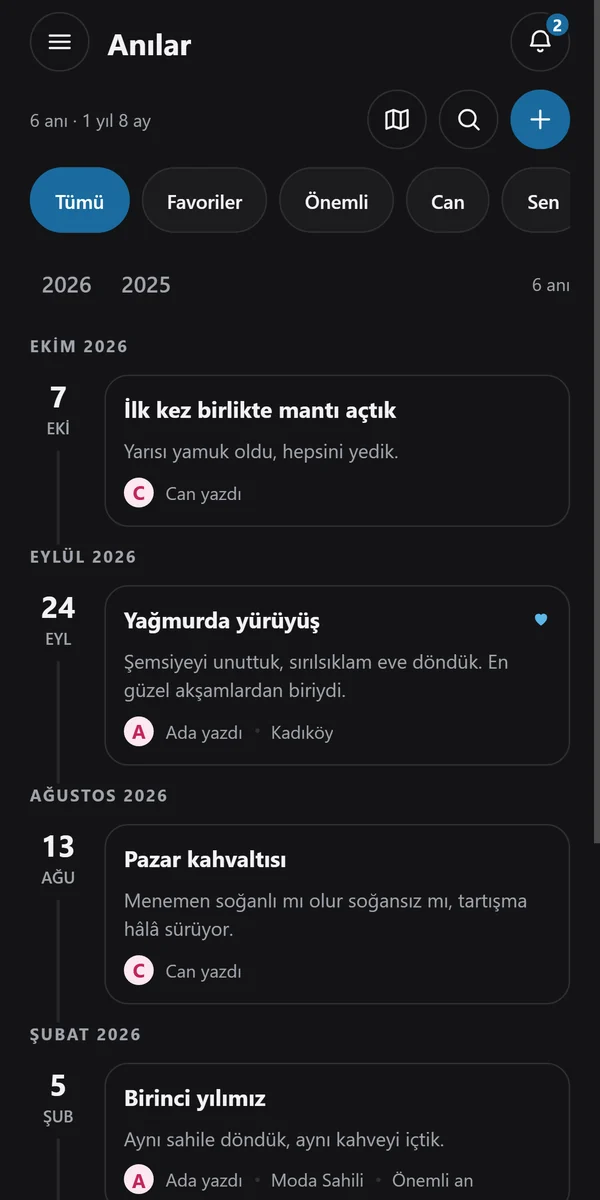
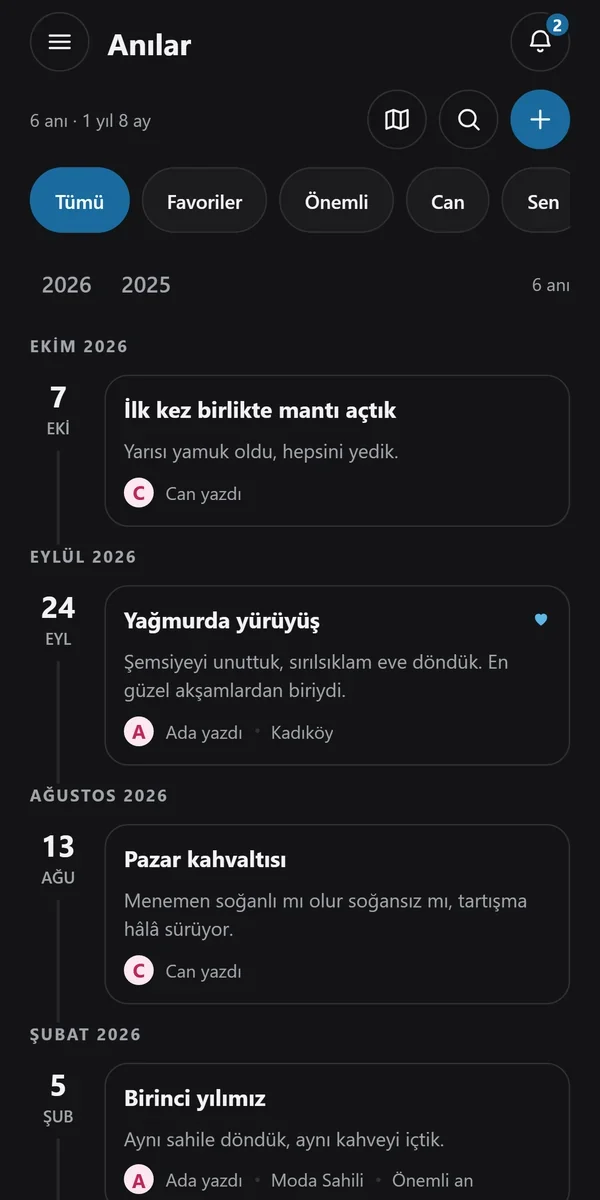
Telefonlara durum cubugu (saat, kamera, sinyal, pil); ani ekranindaki kaydirma cubugu temizlendi

Changed region(s): [[0.99, 0.0, 1.0, 0.7092]]

diff --git a/index.html b/index.html
@@ -47,7 +47,7 @@
     --paper: #F5F0E8; --card: #FCFAF6; --ink: #1E1A16; --body: #3A332C; --muted: #6E655B; --line: #DDD3C5;
     --fox: #C8552B; --fox-text: #A9441E; --btn: #A9441E; --btn-text: #FFFFFF;
     --ocean: #2F9BD8; --ocean-deep: #1A6A9E; --stage: #DCEAF3; --bezel: #1E1A16; --spark: #FFFFFF;
-    --moon: #ECE2D2; --star: #D9A441; --ground: #E6DBCB; --avatar: #FBE3EC; --avatar-text: #C2255C;
+    --moon: #ECE2D2; --star: #D9A441; --ground: #E6DBCB; --avatar: #FBE3EC; --avatar-text: #C2255C; --screen: #FFFFFF; --screen-ink: #1E1A16;
     --shadow: 0 1px 0 rgba(30, 26, 22, .04), 0 12px 32px -12px rgba(30, 26, 22, .22);
     --serif: "Fraunces", Georgia, "Times New Roman", serif;
     --sans: "Instrument Sans", -apple-system, BlinkMacSystemFont, "Segoe UI", Roboto, sans-serif;
@@ -57,7 +57,7 @@
       --paper: #171412; --card: #211D1A; --ink: #F1EAE0; --body: #D6CEC3; --muted: #A1978B; --line: #36302A;
       --fox: #E07A4C; --fox-text: #EE9670; --btn: #E07A4C; --btn-text: #171412;
       --ocean-deep: #7CC3EC; --stage: #16212B; --bezel: #050404; --spark: #2F9BD8;
-      --moon: #221D19; --star: #E8C27A; --ground: #0F0D0B; --avatar: #3A2530; --avatar-text: #F3A6C4;
+      --moon: #221D19; --star: #E8C27A; --ground: #0F0D0B; --avatar: #3A2530; --avatar-text: #F3A6C4; --screen: #141316; --screen-ink: #F4F4F5;
       --shadow: 0 1px 0 rgba(0, 0, 0, .3), 0 14px 36px -14px rgba(0, 0, 0, .7);
     }
   }
@@ -128,11 +128,18 @@
   .stage { position: relative; height: 560px; margin: 56px 0 0; overflow: hidden; border-radius: 28px; background: var(--stage); }
   .phone { position: absolute; left: 50%; width: 270px; padding: 9px; border-radius: 44px; background: var(--bezel);
            box-shadow: 0 30px 60px -20px rgba(16, 40, 60, .45), inset 0 0 0 1.5px rgba(255, 255, 255, .08); }
-  .phone picture { display: block; }
-  .phone img { display: block; width: 100%; height: auto; border-radius: 35px; }
+  .phone { container-type: inline-size; }
+  .scr { background: var(--screen); border-radius: 35px; overflow: hidden; }
+  .scr picture { display: block; }
+  .scr img { display: block; width: 100%; height: auto; }
+  /* durum çubuğu: tarayıcıdan alınan ekranlarda yok, gerçek telefondaki gibi üstte durur */
+  .sb { position: relative; display: flex; justify-content: space-between; align-items: center; height: 11cqw; padding: 1.6cqw 8cqw 0 9cqw;
+        font: 600 4.6cqw/1 var(--sans); color: var(--screen-ink); letter-spacing: .01em; }
+  .sb svg { width: 19cqw; height: 5cqw; fill: var(--screen-ink); stroke: var(--screen-ink); }
+  .sb .cam { position: absolute; left: 50%; top: 3.4cqw; width: 4.4cqw; height: 4.4cqw; margin-left: -2.2cqw; border-radius: 50%; background: #0B0A0A; }
   .phone.c { z-index: 2; bottom: -100px; transform: translateX(-50%); }
-  .phone.l { bottom: -175px; transform: translateX(-50%) translateX(-250px) rotate(-7deg); }
-  .phone.r { bottom: -175px; transform: translateX(-50%) translateX(250px) rotate(7deg); }
+  .phone.l { bottom: -175px; transform: translateX(-50%) translateX(-250px) rotate(-6deg); }
+  .phone.r { bottom: -175px; transform: translateX(-50%) translateX(250px) rotate(6deg); }
   .spark { position: absolute; fill: var(--spark); }
   .spark.s1 { width: 34px; top: 44px; left: 9%; } .spark.s2 { width: 18px; top: 112px; left: 15%; } .spark.s3 { width: 26px; top: 64px; right: 11%; }
   .stage-note { margin: 14px 0 0; font-size: 13px; color: var(--muted); text-align: center; }
@@ -237,10 +244,10 @@
     .principles { grid-template-columns: 1fr; gap: 40px; }
     .stage { height: 500px; }
     .phone { width: 230px; border-radius: 38px; padding: 8px; }
-    .phone img { border-radius: 30px; }
+    .scr { border-radius: 30px; }
     .phone.c { bottom: -110px; }
-    .phone.l { bottom: -170px; transform: translateX(-50%) translateX(-190px) rotate(-7deg); }
-    .phone.r { bottom: -170px; transform: translateX(-50%) translateX(190px) rotate(7deg); }
+    .phone.l { bottom: -170px; transform: translateX(-50%) translateX(-190px) rotate(-6deg); }
+    .phone.r { bottom: -170px; transform: translateX(-50%) translateX(190px) rotate(6deg); }
   }
   @media (max-width: 560px) {
     body { font-size: 16px; }
@@ -261,7 +268,7 @@
     .btn { justify-content: center; }
     .stage { height: 420px; margin-top: 40px; border-radius: 22px; }
     .phone { width: 190px; border-radius: 32px; padding: 7px; }
-    .phone img { border-radius: 25px; }
+    .scr { border-radius: 25px; }
     .phone.c { bottom: -80px; }
     .phone.l { bottom: -150px; transform: translateX(-50%) translateX(-118px) rotate(-8deg); }
     .phone.r { bottom: -150px; transform: translateX(-50%) translateX(118px) rotate(8deg); }
@@ -406,9 +413,9 @@
       <svg class="spark s1" viewBox="0 0 14 14" aria-hidden="true"><use href="#star4"/></svg>
       <svg class="spark s2" viewBox="0 0 14 14" aria-hidden="true"><use href="#star4"/></svg>
       <svg class="spark s3" viewBox="0 0 14 14" aria-hidden="true"><use href="#star4"/></svg>
-      <div class="phone l"><picture><source srcset="img/letters-dark.webp" media="(prefers-color-scheme: dark)"><img src="img/letters.webp" width="600" height="1200" loading="lazy" alt="Mektuplar ekranı: biri yolda, biri mühürlü iki mektup."></picture></div>
-      <div class="phone r"><picture><source srcset="img/memories-dark.webp" media="(prefers-color-scheme: dark)"><img src="img/memories.webp" width="600" height="1200" loading="lazy" alt="Anılar ekranı: aylara göre sıralanmış anılar."></picture></div>
-      <div class="phone c"><picture><source srcset="img/home-dark.webp" media="(prefers-color-scheme: dark)"><img src="img/home.webp" width="600" height="1200" alt="Ana sayfa: 612 gündür birlikte sayacı ve anılar, mektuplar, özel günler, planlar kartları."></picture></div>
+      <div class="phone l"><div class="scr"><div class="sb" aria-hidden="true"><span>09:41</span><i class="cam"></i><svg viewBox="0 0 54 14"><rect x="1" y="9" width="2.6" height="4" rx=".8"/><rect x="5.2" y="6.5" width="2.6" height="6.5" rx=".8"/><rect x="9.4" y="4" width="2.6" height="9" rx=".8"/><rect x="13.6" y="1.5" width="2.6" height="11.5" rx=".8"/><path d="M22 6.2a8 8 0 0 1 10.6 0M24.2 8.7a4.8 4.8 0 0 1 6.2 0" fill="none" stroke-width="1.6" stroke-linecap="round"/><circle cx="27.3" cy="11.3" r="1.3"/><rect x="37" y="2.5" width="14" height="9" rx="2.4" fill="none" stroke-width="1.2"/><rect x="38.8" y="4.3" width="9.6" height="5.4" rx="1.2"/><rect x="51.8" y="5.4" width="1.4" height="3.2" rx=".6"/></svg></div><picture><source srcset="img/letters-dark.webp" media="(prefers-color-scheme: dark)"><img src="img/letters.webp" width="600" height="1200" loading="lazy" alt="Mektuplar ekranı: biri yolda, biri mühürlü iki mektup."></picture></div></div>
+      <div class="phone r"><div class="scr"><div class="sb" aria-hidden="true"><span>09:41</span><i class="cam"></i><svg viewBox="0 0 54 14"><rect x="1" y="9" width="2.6" height="4" rx=".8"/><rect x="5.2" y="6.5" width="2.6" height="6.5" rx=".8"/><rect x="9.4" y="4" width="2.6" height="9" rx=".8"/><rect x="13.6" y="1.5" width="2.6" height="11.5" rx=".8"/><path d="M22 6.2a8 8 0 0 1 10.6 0M24.2 8.7a4.8 4.8 0 0 1 6.2 0" fill="none" stroke-width="1.6" stroke-linecap="round"/><circle cx="27.3" cy="11.3" r="1.3"/><rect x="37" y="2.5" width="14" height="9" rx="2.4" fill="none" stroke-width="1.2"/><rect x="38.8" y="4.3" width="9.6" height="5.4" rx="1.2"/><rect x="51.8" y="5.4" width="1.4" height="3.2" rx=".6"/></svg></div><picture><source srcset="img/memories-dark.webp" media="(prefers-color-scheme: dark)"><img src="img/memories.webp" width="600" height="1200" loading="lazy" alt="Anılar ekranı: aylara göre sıralanmış anılar."></picture></div></div>
+      <div class="phone c"><div class="scr"><div class="sb" aria-hidden="true"><span>09:41</span><i class="cam"></i><svg viewBox="0 0 54 14"><rect x="1" y="9" width="2.6" height="4" rx=".8"/><rect x="5.2" y="6.5" width="2.6" height="6.5" rx=".8"/><rect x="9.4" y="4" width="2.6" height="9" rx=".8"/><rect x="13.6" y="1.5" width="2.6" height="11.5" rx=".8"/><path d="M22 6.2a8 8 0 0 1 10.6 0M24.2 8.7a4.8 4.8 0 0 1 6.2 0" fill="none" stroke-width="1.6" stroke-linecap="round"/><circle cx="27.3" cy="11.3" r="1.3"/><rect x="37" y="2.5" width="14" height="9" rx="2.4" fill="none" stroke-width="1.2"/><rect x="38.8" y="4.3" width="9.6" height="5.4" rx="1.2"/><rect x="51.8" y="5.4" width="1.4" height="3.2" rx=".6"/></svg></div><picture><source srcset="img/home-dark.webp" media="(prefers-color-scheme: dark)"><img src="img/home.webp" width="600" height="1200" alt="Ana sayfa: 612 gündür birlikte sayacı ve anılar, mektuplar, özel günler, planlar kartları."></picture></div></div>
     </figure>
     <p class="stage-note">Uygulamanın gerçek ekranları. İsimler ve içerik örnektir.</p>
 
